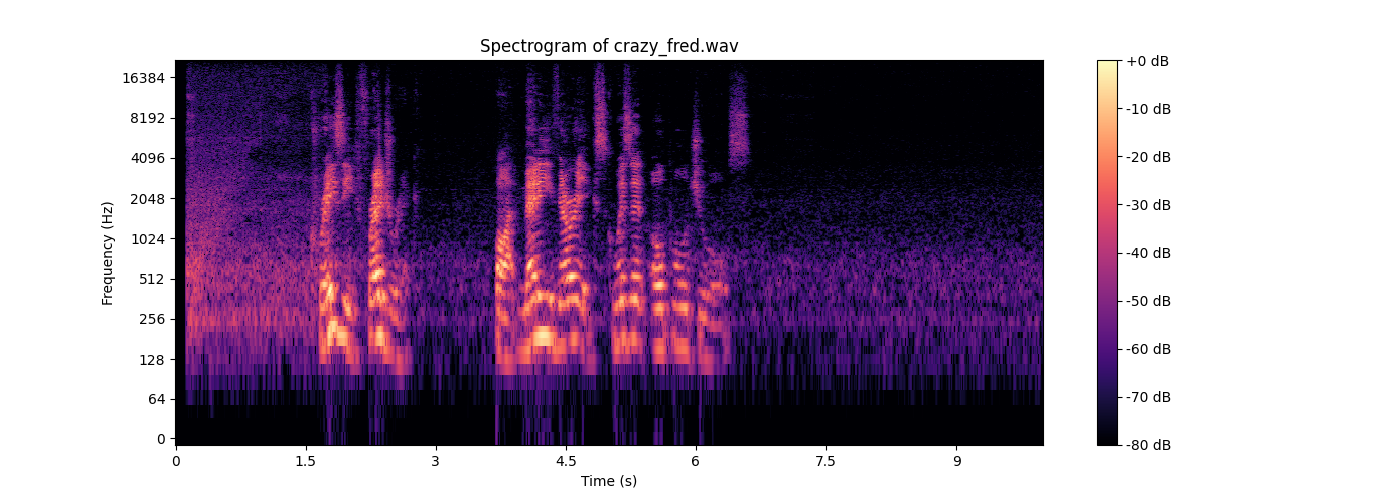
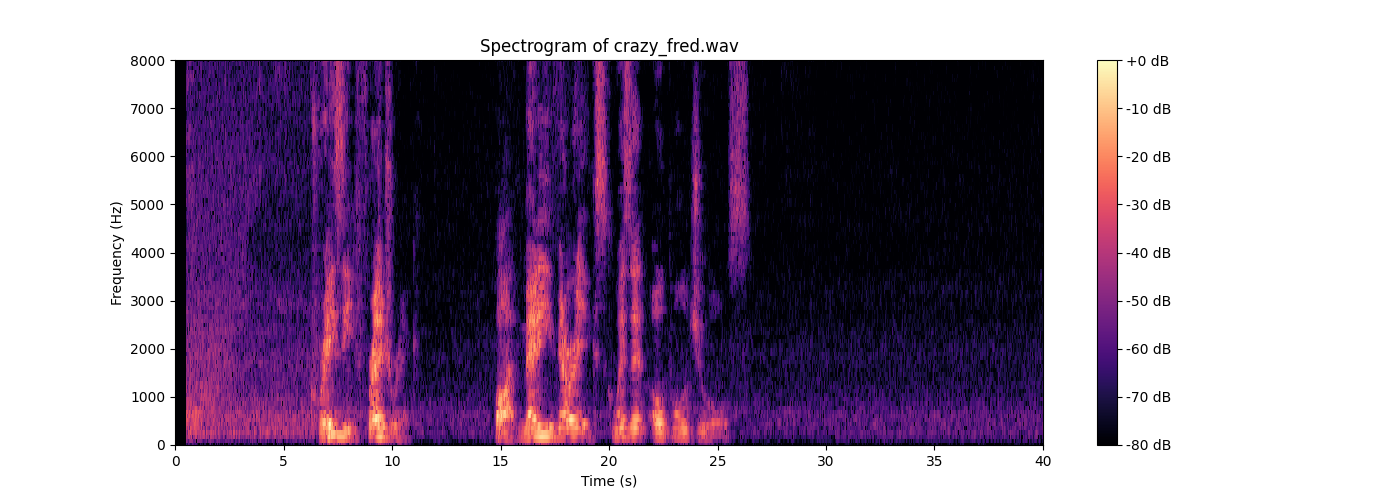
change spectrogram to linear, max 8000hz, step 1000hz, sr = 44100?

diff --git a/wav_spectrogram.py b/wav_spectrogram.py
@@ -6,14 +6,21 @@ import librosa.display
 filename = input("Enter the .wav file name (including extension): ")
 
 # Load the audio file
-y, sr = librosa.load(filename, sr=None)
+y, sr = librosa.load(filename, sr=44100)
 
 # Generate the spectrogram
-D = librosa.amplitude_to_db(np.abs(librosa.stft(y)), ref=np.max)
+D = librosa.amplitude_to_db(np.abs(librosa.stft(y, n_fft=512)), ref=np.max)
 
 # Plot the spectrogram
 plt.figure(figsize=(14, 5))
-librosa.display.specshow(D, sr=sr, x_axis='time', y_axis='log')
+librosa.display.specshow(D, sr=sr, x_axis='time', y_axis='linear')
+# Set maximum Y value to 8000Hz
+ax = plt.gca() #get current axes
+ax.set_ylim([0, 8001])
+# Get current min and max on the y axis and set them to the limits with step of 1000hz
+start, end = ax.get_ylim()
+ax.set_yticks(np.arange(start, end, 1000))
+
 plt.colorbar(format='%+2.0f dB')
 plt.title('Spectrogram of ' + filename)
 plt.xlabel('Time (s)')
